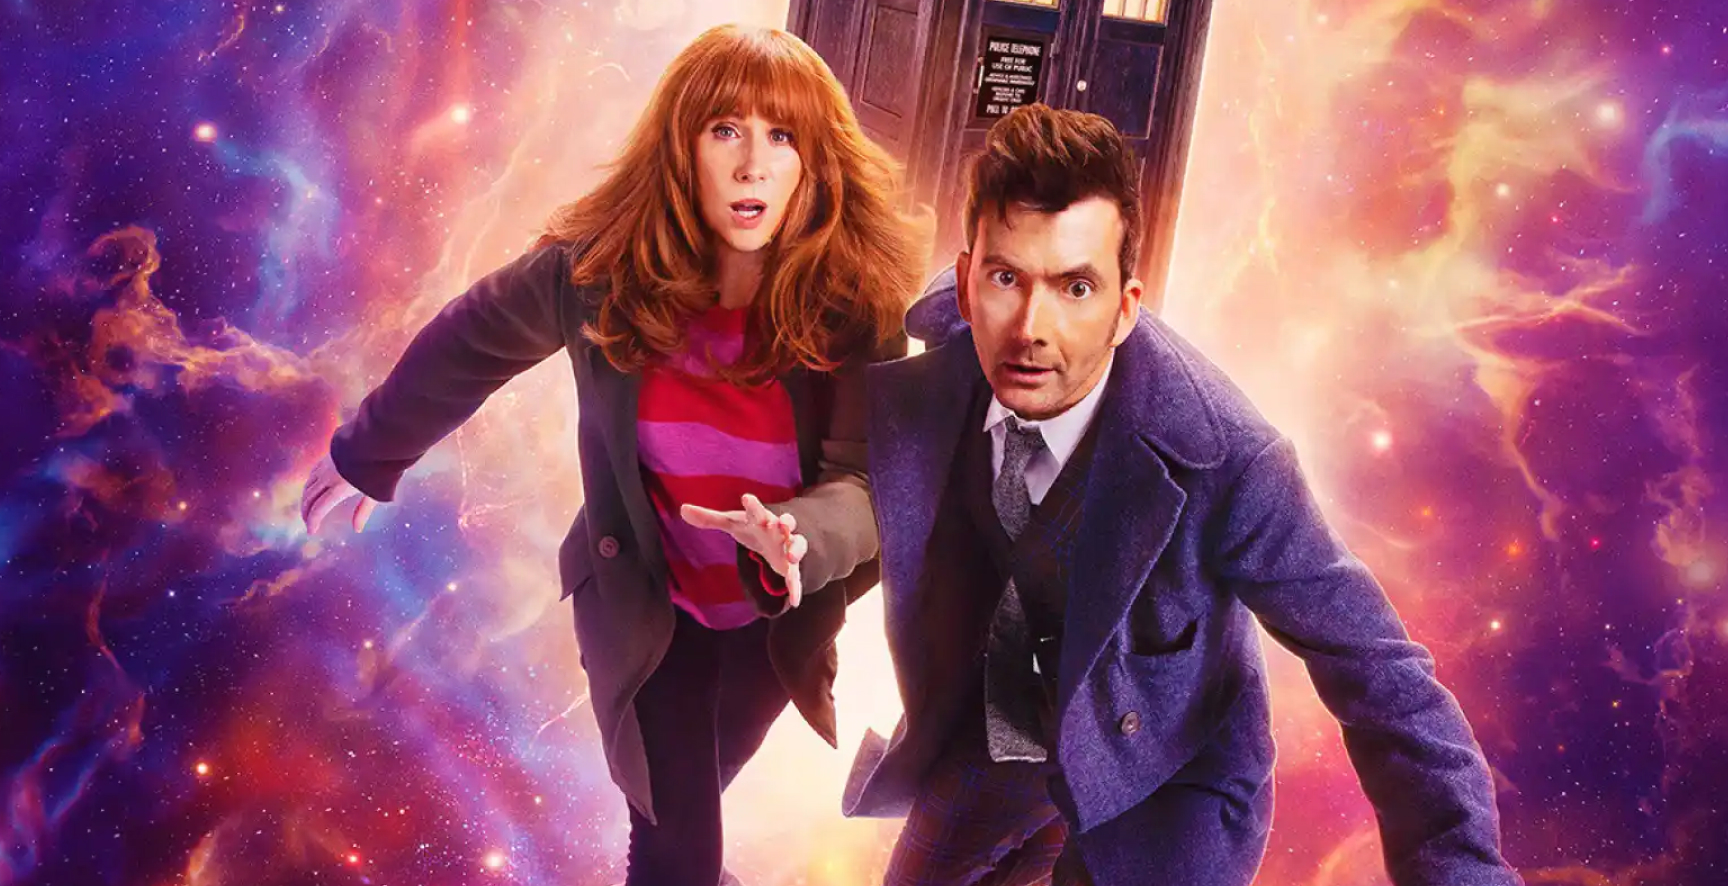
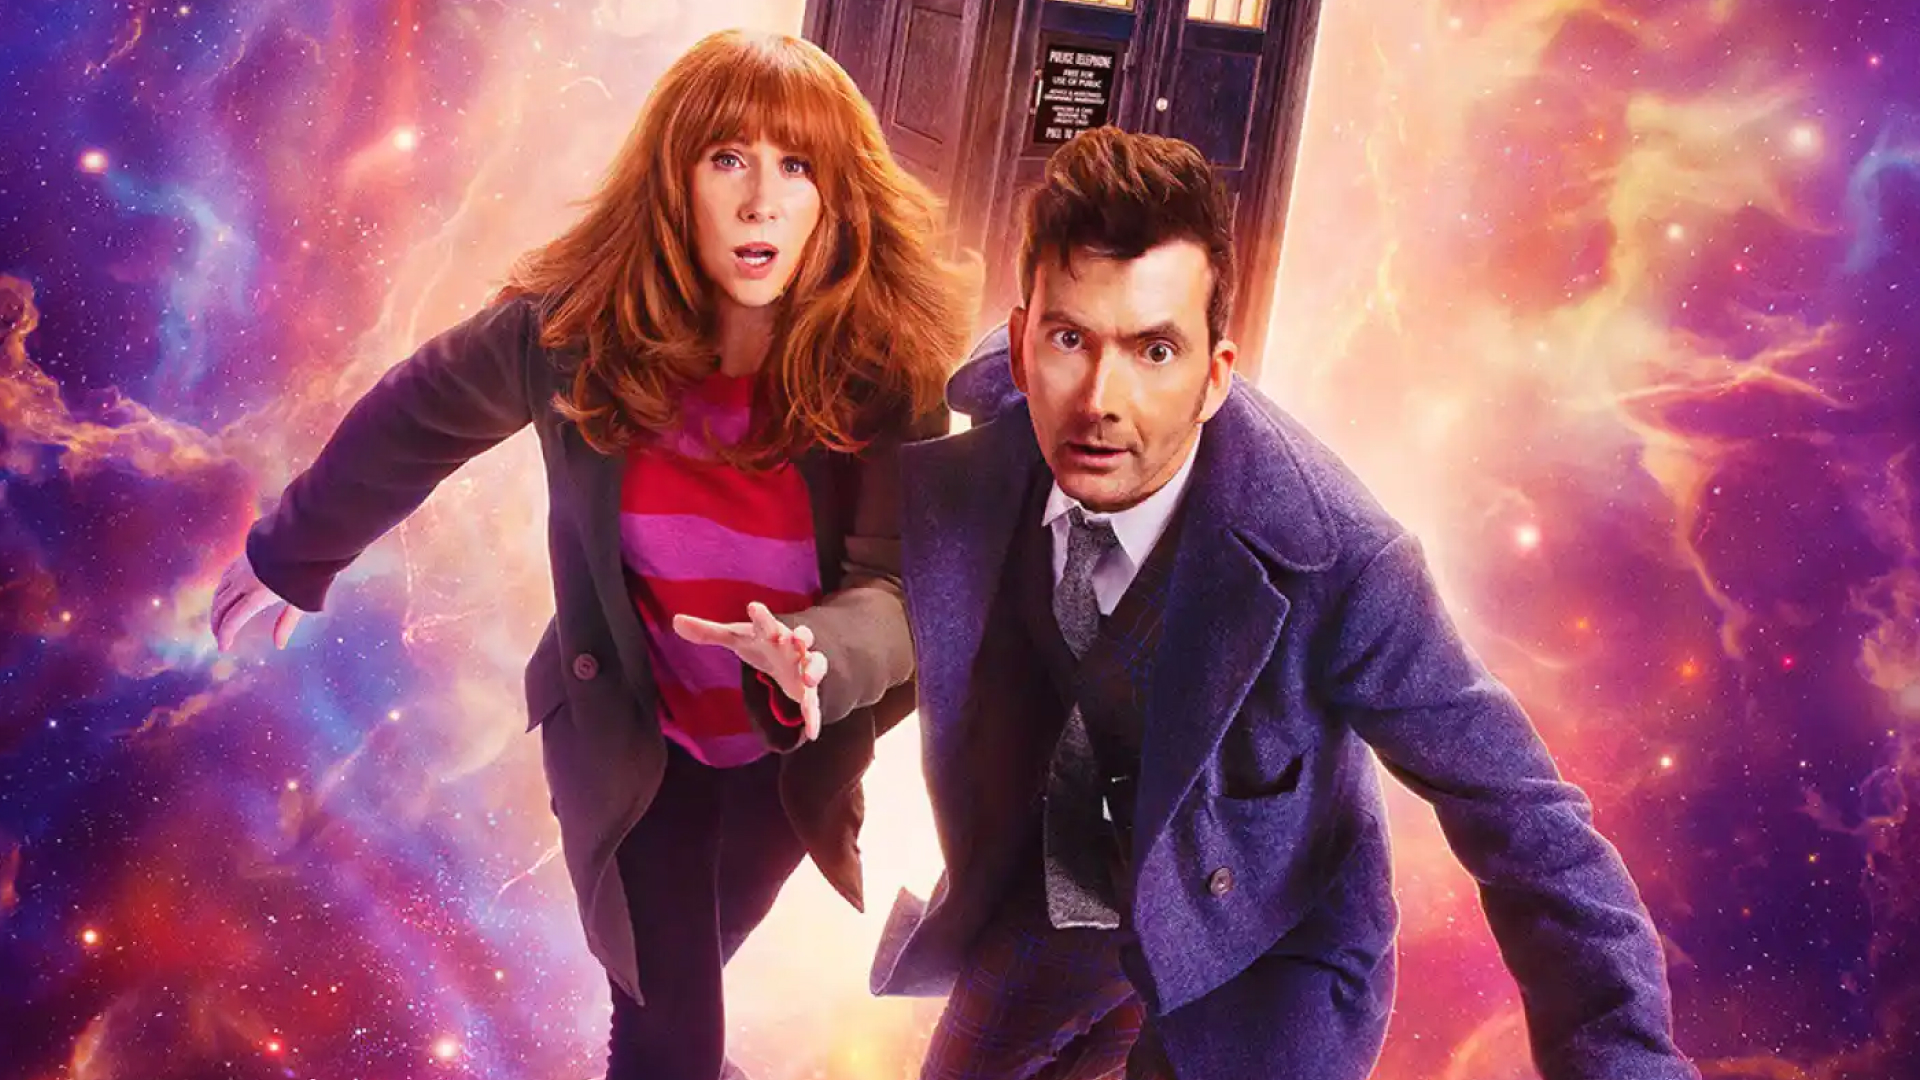
Refactorized carousel component

diff --git a/src/app/components/organisms/carousel.jsx b/src/app/components/organisms/carousel.jsx
@@ -1,14 +1,12 @@
 import React, { useState } from 'react';
-import Image from 'next/image';
 import styled from 'styled-components';
 import Button from '../atoms/Button';
 import CarouselButton from '../atoms/carouselButton';
-import Link from 'next/link';
 
-const images = ['/assets/img/carrusel/carrusel-1.webp', '/assets/img/carrusel/carrusel-2.jpg'];
+// Listado imágenes
+const images = ['/assets/img/carrusel/carrusel-1.jpg', '/assets/img/carrusel/carrusel-2.jpg'];
 
 const CarouselContainer = styled.div`
-  width: 100vw;
   overflow: hidden;
   position: relative;
 `;
@@ -26,10 +24,14 @@ const MaxWidthContainer = styled.div`
 const CarouselButtonsWrap = styled.div`
   position: absolute;
   bottom: 4rem;
-  right: 4rem;
-  transform: translateX(-50%);
+  right: 40rem;
   display: flex;
   gap: 1rem;
+
+  @media screen and (min-width: 1120px) {
+    right: 4rem;
+    transform: translateX(-50%);
+  }
 
   @media (min-width: 1440px) {
     right: 6rem;
@@ -39,18 +41,32 @@ const CarouselButtonsWrap = styled.div`
 const TextWrap = styled.div`
   position: absolute;
   top: 50%;
-  left: 24%;
-  transform: translateX(-50%);
+  left: 39%;
   display: flex;
   gap: 2rem;
   flex-direction: column;
   justify-content: flex-start;
   align-items: flex-start;
+
+  @media screen and (min-width: 1120px) {
+    left: 8%;
+  }
 `;
 
 const ButtonContainer = styled.div`
   display: flex;
   gap: 2rem;
+`;
+
+const ImageResponsiveCrop = styled.img`
+  object-fit: cover;
+  max-height: 860px;
+
+  @media (min-width: 1120px) {
+    object-fit: fill;
+    width: 100vw;
+    max-height: 1080px;
+  }
 `;
 
 const Carousel = () => {
@@ -62,16 +78,7 @@ const Carousel = () => {
 
   return (
     <CarouselContainer>
-      <Image
-        src={images[activeIndex]}
-        width={1726}
-        height={865}
-        alt={`Image ${activeIndex + 1}`}
-        style={{
-          display: 'block',
-          margin: '0 auto',
-        }}
-      />
+      <ImageResponsiveCrop src={images[activeIndex]} alt={`Image ${activeIndex + 1}`} />
 
       <MaxWidthContainer>
         <CarouselButtonsWrap>
@@ -81,10 +88,12 @@ const Carousel = () => {
         </CarouselButtonsWrap>
 
         <TextWrap>
-          <h2>The Giggle {activeIndex + 1} </h2>
+          {activeIndex === 1 ? <h2>Allons-y</h2> : <h2>The Giggle {activeIndex + 1}</h2>}
 
           <ButtonContainer>
-            <Button onClick={() => console.log('Button clicked')}>Ver ahora</Button>
+            <Button onClick={() => console.log('Button clicked')} href="https://www.doctorwho.tv/" target="_blank">
+              Ver ahora
+            </Button>
           </ButtonContainer>
         </TextWrap>
       </MaxWidthContainer>
